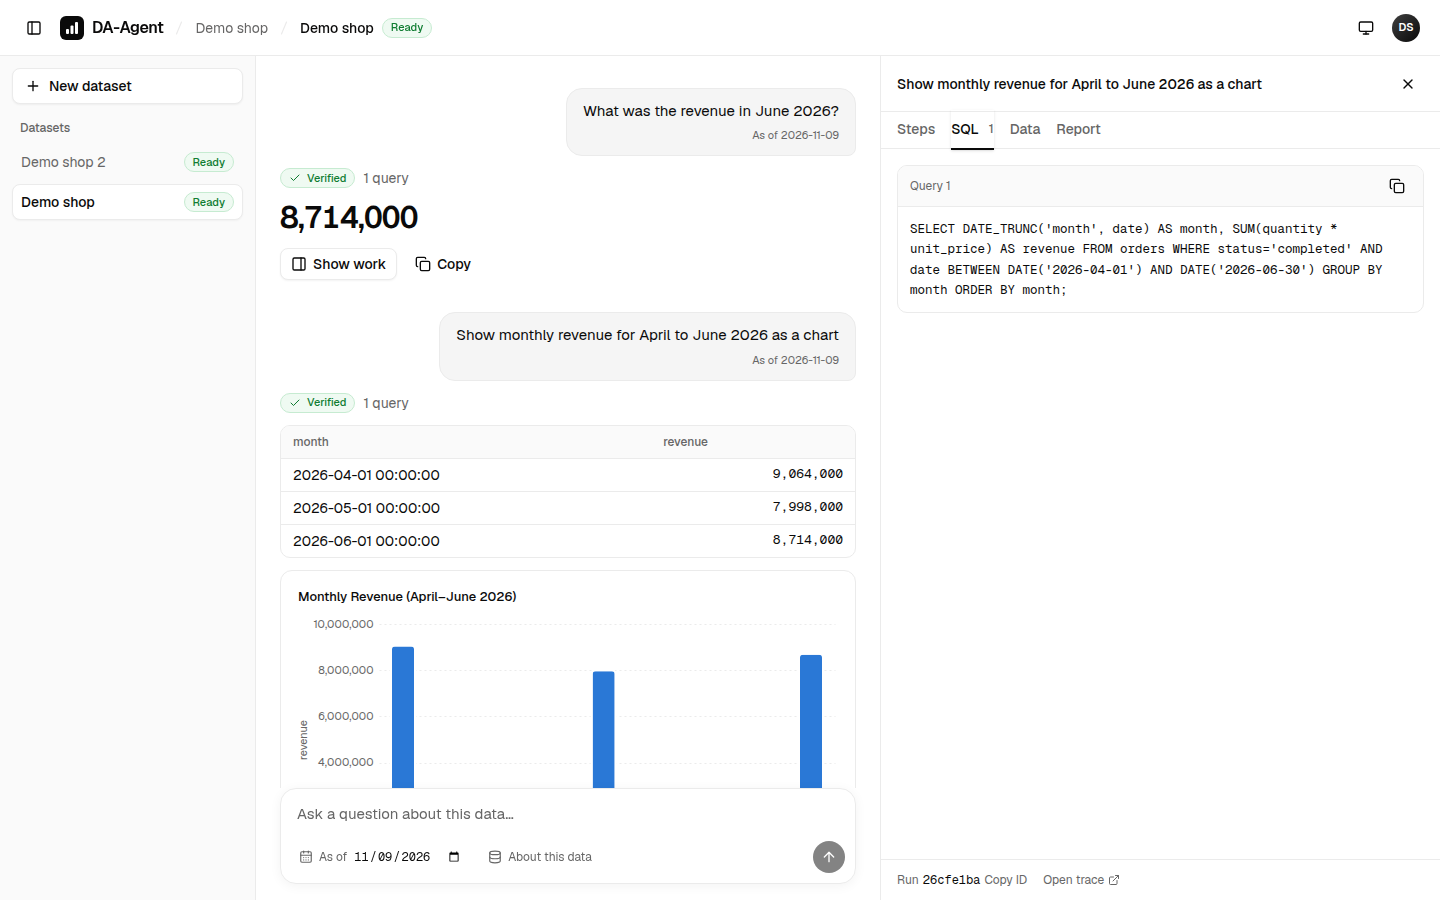
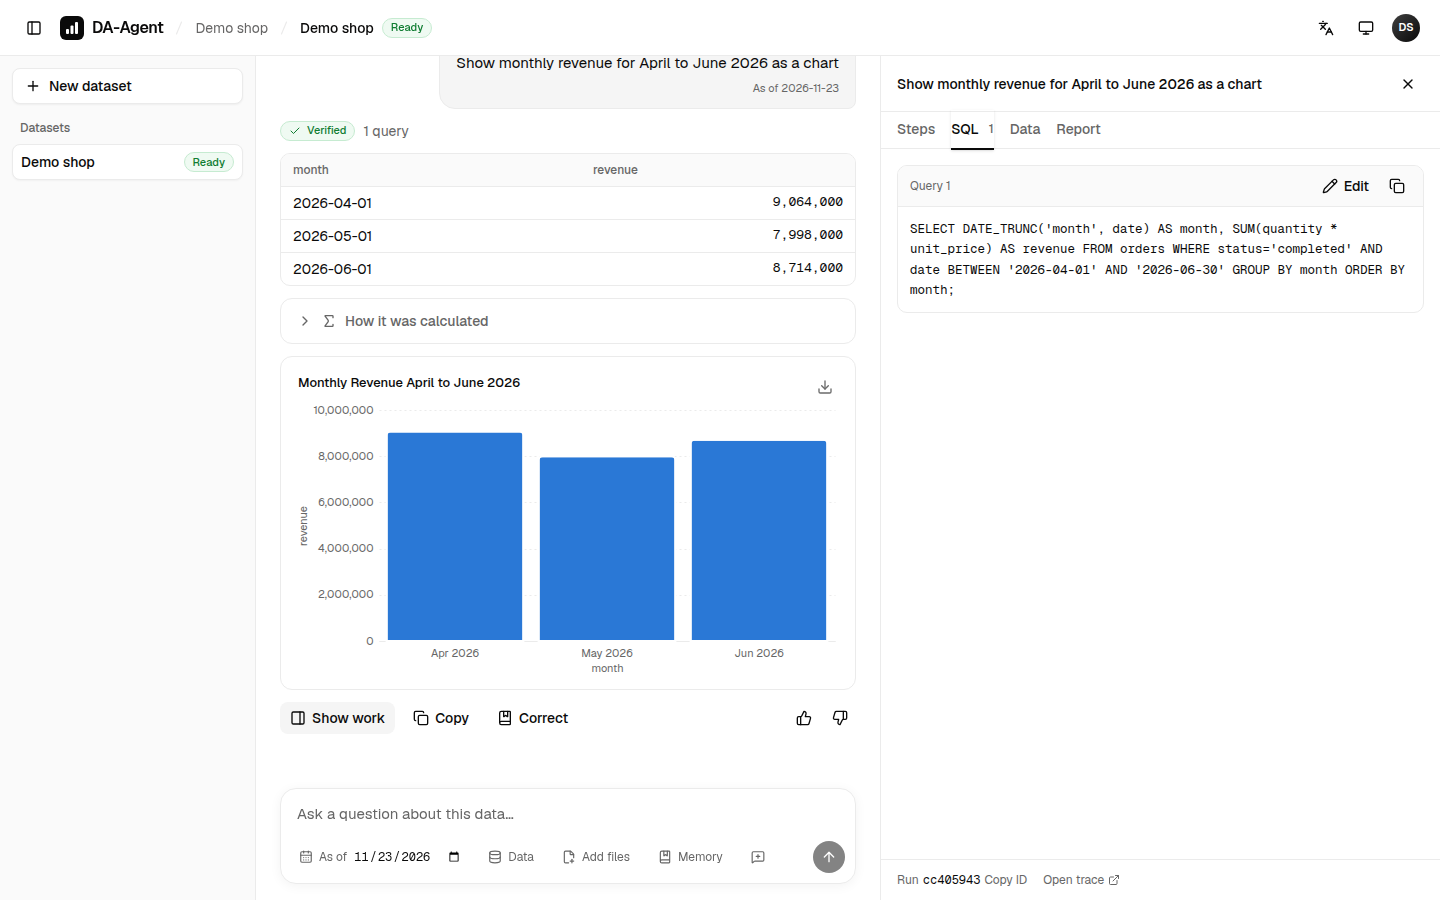
docs: README highlights and badges, operations guide, new screenshot
The README opens with results and design highlights and a plain diagram; running without
Compose, time travel, golden reruns, SLOs, and traces move to docs/operations.md. The chat
screenshot is re-captured with the chart fixes ($0.008 of Groq calls).

diff --git a/README.md b/README.md
@@ -1,5 +1,10 @@
 # DA-Agent
 
+[![CI](https://github.com/qnghi13/DA-Agent/actions/workflows/ci.yml/badge.svg)](https://github.com/qnghi13/DA-Agent/actions/workflows/ci.yml)
+[![Release](https://img.shields.io/github/v/tag/qnghi13/DA-Agent?label=release)](https://github.com/qnghi13/DA-Agent/pkgs/container/da-agent)
+[![License: Apache-2.0](https://img.shields.io/badge/license-Apache--2.0-blue)](LICENSE)
+![Python 3.12](https://img.shields.io/badge/python-3.12-blue)
+
 An open-source agent that analyses uploaded CSV, Excel, and SQLite files. You upload data with a
 free-form description and ask questions. It answers with results you can trace back to the queries
 that produced them.
@@ -25,6 +30,30 @@ questions in English and Vietnamese, and see the SQL behind each answer.*
     <td>The operator dashboard: queue, outcomes, latency, model errors, cost</td>
   </tr>
 </table>
+
+## Highlights
+
+- **Measured on unseen data.** On 150 questions from 6 shops held out from development and run
+  once, 60% correct and 9% abstained, at about $0.002 and 6 seconds (median) per question with
+  `gpt-oss-20b`. A wrong answer costs a point, so the agent abstains rather than guess
+  ([Evaluation](#evaluation)).
+- **Generated code never runs on the host.** File parsing and every SQL query run in containers
+  without network or secrets, behind a read-only SQL guard. Escape attempts are tests.
+- **Answers are checked by code, not by another model.** Numbers must come from query results,
+  periods must fall inside the data, and joins must not double-count. A failed check gets two
+  repairs, then the agent abstains.
+- **Crash-safe and budgeted.** Every model turn is a Postgres checkpoint, so a killed worker's
+  run resumes without repeating steps. Token and money limits per run and workspace, a circuit
+  breaker for model providers, cancel, and deadlines.
+- **Operable.** OpenTelemetry traces, a cost ledger per model call, an audit log, an operator
+  dashboard, and Prometheus SLO alerts.
+- **Decisions on record.** 47 [architecture decision records](docs/adr/README.md), a
+  [threat model](docs/threat-model.md), and about 1,800 Python and 160 web tests in CI.
+
+What measuring taught: the largest gain came from data preparation, not from the agent. Removing
+double entries that code can prove took one shop's score from −11 to +13, while the LangGraph
+workflow scored the same as a plain tool loop. The workflow stays for checkpoints and
+verification, not for score.
 
 ## Quick start
 
@@ -63,12 +92,21 @@ add `-v` to delete all data.
 
 ## How it works
 
+```mermaid
+flowchart LR
+    browser["Browser<br/>React UI"] -- "HTTP, SSE" --> api["API<br/>FastAPI"]
+    api --> pg[("Postgres<br/>jobs, checkpoints,<br/>audit log, costs")]
+    worker["Worker<br/>ingestion, LangGraph agent"] -- "claims jobs" --> pg
+    worker --> llm["LLMClient"] --> providers(("Model<br/>providers"))
+    worker -- "one SQL query" --> runner["Runner"] --> sandbox["Sandbox<br/>DuckDB, no network,<br/>read-only dataset"]
+```
+
+The same system drawn as one bench, with numbers that follow a question through it:
+
 <picture>
   <source media="(prefers-color-scheme: dark)" srcset="docs/images/architecture-dark.svg" />
   <img src="docs/images/architecture-light.svg" alt="The system drawn as one bench: a terminal cabled to an intake box, a four-drawer card cabinet, a carriage on rails cabled to a teleprinter with an antenna, and an airlock that passes one lit SQL card into a sealed glass box holding a clamped data cartridge." />
 </picture>
-
-The system as one bench. The numbers follow a question through it:
 
 1. **Browser** (the terminal): the React UI, talking to the API over HTTP and SSE (two cables).
 2. **API** (the intake box): FastAPI. It checks sign-in, scopes each request to a workspace, and
@@ -149,6 +187,7 @@ Holdout is within noise of dev. Details, the history of changes, and caveats are
 ## Documentation
 
 - [Architecture](docs/architecture.md)
+- [Operations](docs/operations.md): running without Compose, time travel, golden reruns, alerts
 - [Evaluation results](docs/eval/README.md)
 - [Threat model](docs/threat-model.md)
 - [Decision records](docs/adr/README.md)
@@ -164,10 +203,12 @@ Requires [uv](https://docs.astral.sh/uv/) and Python 3.12.
 uv sync
 uv run pytest
 uv run ruff check .
+uv run pyright          # src, eval, sandbox, and scripts
 ```
 
 Tests that need Postgres are skipped unless `DA_AGENT_TEST_POSTGRES_URL` is set; each test runs in
-its own schema.
+its own schema. To run the backend without Compose, and for the operator tools, see
+[Operations](docs/operations.md).
 
 The project was built with Claude Code. `CLAUDE.md`, `.claude/settings.json`, the hooks, agents,
 and the `tdd` and `agent-architecture` skills are part of the repo. Third-party skills are not
@@ -177,67 +218,6 @@ committed; restore them if you want the same setup (needs Node):
 npx skills experimental_install          # the versions pinned in skills-lock.json
 playwright-cli install --skills          # from @playwright/cli, for browser checks of the UI
 ```
-
-## Running the backend without Compose
-
-For development. Without `DA_AGENT_RUNNER_URL` the worker starts sandbox containers itself, so it
-needs Docker and the sandbox image; Compose runs a separate Runner service instead
-([ADR 0024](docs/adr/0024-runner-service.md)). Postgres holds jobs, checkpoints, and costs.
-
-```bash
-docker build -f sandbox/Dockerfile -t da-agent-sandbox:dev .
-export DA_AGENT_DATABASE_URL=postgresql://USER:PASSWORD@localhost:5432/da_agent
-export DA_AGENT_DATA_DIR=/path/to/data            # uploads, staging, and built datasets
-export DA_AGENT_ROUTES=groq:openai/gpt-oss-20b    # the worker only; GROQ_API_KEY too
-
-uv run python -m da_agent.admin create-workspace "My shop"   # prints a key once
-DA_AGENT_PUBLIC_URL=http://localhost:5173 uv run python -m da_agent.api --port 8000
-uv run python -m da_agent.admin login-link --workspace WORKSPACE_ID   # for the browser
-uv run python -m da_agent.worker
-```
-
-Then, with the key as a bearer token:
-
-```bash
-curl -H "Authorization: Bearer $KEY" -F name=Sales -F files=@sales.csv localhost:8000/v1/datasets
-curl -H "Authorization: Bearer $KEY" localhost:8000/v1/datasets/$DATASET        # review the spec
-curl -H "Authorization: Bearer $KEY" -X POST -H 'Content-Type: application/json' -d '{}' \
-     localhost:8000/v1/datasets/$DATASET/approve
-curl -H "Authorization: Bearer $KEY" -H 'Content-Type: application/json' \
-     -d "{\"dataset_id\": \"$DATASET\", \"question\": \"Total revenue in June?\"}" localhost:8000/v1/runs
-curl -N -H "Authorization: Bearer $KEY" localhost:8000/v1/runs/$RUN/events     # live progress
-curl -H "Authorization: Bearer $KEY" localhost:8000/v1/runs/$RUN/report > report.html
-curl -H "Authorization: Bearer $KEY" "localhost:8000/v1/runs?dataset_id=$DATASET"  # history
-```
-
-Operators can read and rerun a run's checkpoints with the worker's settings
-([ADR 0042](docs/adr/0042-cancel-deadline-time-travel.md)); a fork calls the model:
-
-```bash
-uv run python -m da_agent.timetravel list $RUN               # every step of a run
-uv run python -m da_agent.timetravel show $RUN $CHECKPOINT   # the state at one step
-uv run python -m da_agent.timetravel fork $RUN $CHECKPOINT   # run on from there in a new thread
-```
-
-Answers users rated 👍 become golden cases, which operators rerun after a change
-([ADR 0043](docs/adr/0043-feedback-goldens.md)); `run` spends only with `--yes`:
-
-```bash
-uv run python -m da_agent.goldens list --workspace $WORKSPACE      # cases and runs rated 👎
-uv run python -m da_agent.goldens run --workspace $WORKSPACE --yes # same / changed / error
-```
-
-Compose also runs Prometheus (`127.0.0.1:9090`) and Alertmanager (`127.0.0.1:9093`) for SLOs and
-alerts ([ADR 0044](docs/adr/0044-slo-alerts.md)). Set `DA_AGENT_ALERT_WEBHOOK_URL` in `.env` to
-receive alerts; rules are in `deploy/prometheus/rules/` and their tests run with `uv run pytest`.
-
-Traces go to any OpenTelemetry (OTLP) endpoint set in `DA_AGENT_OTLP_ENDPOINT`, such as a local
-Phoenix (`http://127.0.0.1:6006/v1/traces`). Setting `DA_AGENT_TRACE_UI_URL=http://127.0.0.1:6006`
-on the API adds an "Open trace" link to each run in the UI. Phoenix shows every workspace's
-traces, so set it only where the operator is the only user.
-
-Every setting is listed in [`src/da_agent/config.py`](src/da_agent/config.py). The interactive API
-reference is at `/docs`.
 
 ## Running the web UI
 

diff --git a/docs/progress.md b/docs/progress.md
@@ -1,6 +1,6 @@
 # Progress
 
-Loaded into every session; keep it under 60 lines and replace stale content. **Last updated:** 2026-11-22 (answers in the question's language)
+Loaded into every session; keep it under 60 lines and replace stale content. **Last updated:** 2026-11-23 (portfolio polish)
 **Phase:** optimisation. Challenge rules: ≤15B params in total, offline Docker, 2×5090, 6 h,
 re-run must match ±0.03 PA; Groq `gpt-oss-20b` (21B, API) is not allowed for the submission.
 
@@ -18,6 +18,10 @@ re-run must match ±0.03 PA; Groq `gpt-oss-20b` (21B, API) is not allowed for th
   (Groq +55). Then status variants and line-vs-header revenue (~12, checked by hand SQL), debt
   4, budget abstains 8 (SQLite functions, made-up columns). Semantic layer: private folder.
 ## Next step
+- **Portfolio polish** (2026-11-23, not committed): README highlights, badges, plain diagram,
+  `docs/operations.md`; month bars are ordinal bands; UI drops midnight times and repeated
+  charts; `chat.png` re-captured ($0.008). Open: a tie dropped by `LIMIT 1` (needs eval); Groq
+  `invalid_tool_call` 6 times in one chart run, then `make_chart` on the submit-only last turn.
 - **Vietnamese UI** on `main` (ADR 0046, note 25; not pushed): Tiếng Việt option, typed
   dictionaries in `web/src/i18n`, API error `code`/`params`. Column descriptions stay English.
 - **Answer language** on `main` (ADR 0047): a Vietnamese question gets `reason` and
@@ -30,33 +34,25 @@ re-run must match ±0.03 PA; Groq `gpt-oss-20b` (21B, API) is not allowed for th
    Harness track done (ADRs 0038–0044, notes 17–23): manifest, record/replay, pass^k (one-run
    gains under ~9 points are noise), breaker, cancel and deadline, feedback, SLOs and alerts.
    Later: an LLM judge checked against feedback.
-1. v0.1.0 released (ADR 0028); holdout ran once (+44, never rerun). Open: run 97d7bc1f guessed
-   an absent `product_id` (audit: a UI guardrail, not a score fix); `\uXXXX` escapes written into
-   SQL text (2 runs in all reports).
+1. v0.1.0 released (ADR 0028); holdout ran once (+44, never rerun). Open: an absent `product_id`
+   guessed (run 97d7bc1f; a UI guardrail); `\uXXXX` escapes in SQL text (2 runs in all reports).
 ## Baselines (Groq `gpt-oss-20b`, before 559f88a): `regression` +53 (93/40/17), holdout +44.
 ## Done
 - ADRs 0001–0047, notes 01–25. Scorer 3000/3000; splits in `eval/splits/splits.json`.
-- Agent: `LLMClient`, SQL guard, LangGraph with checkpoints and verify, Groq `gpt-oss-20b`.
-  Sandbox: all escape tests pass; ingestion and agent SQL run in it (ADRs 0009–0012).
+- Agent, sandbox (escape tests pass), backend over HTTP, reports; RAG cut (note 05).
   `datasets-dev/`: 24/24 ok, parse 99.98%+, exclusion precision and recall 100%.
-- Backend (ADRs 0017–0022) over HTTP; reports; RAG cut (note 05).
-
 ## Not verified
-- Pyright: 24 old errors. No real call: Gemini, `openrouter`, `vllm` (serve.sh untested on a
+- Pyright: 0 errors in src, eval, sandbox, scripts, and in CI (2026-11-23); tests not checked
+  (184 errors, mostly fakes). No real call: Gemini, `openrouter`, `vllm` (serve.sh untested on a
   GPU). Postgres tests need `uv run --env-file .env pytest`.
-
 ## Waiting on the user
 - No rows, questions, rulebook, or answers in any commit or image (organiser rules). When the
   challenge ends: delete `train/`, `eval/reports/`, and Docker volumes with eval data.
 
-## Spend so far: about $3.11 (agent runs $2.48, spec proposals $0.57, demos and e2e $0.04).
-- Demo video (2026-11-22, ~$0.025, Playwright screencast on `examples/demo-shop`, Kokoro
-  narration, not in the repo): seen live, a top-product answer dropped a tie (LIMIT 1); a month
-  line chart ticks by week (DATE_TRUNC timestamp); "bar chart of revenue by channel" drew no
-  chart; one run "invalid tool calls"; one run called `make_chart` twice and showed both charts.
+## Spend so far: about $3.12 (agent runs $2.48, spec proposals $0.57, demos and e2e $0.05).
+- Demo video (2026-11-22, not in the repo): re-record once the open items under Next step are fixed.
 
 ## Watch out
-
 - 30 questions on Groq cost about $0.05–0.10, and results vary run to run: compare totals.
   Scorer: a wrong `type` is wrong; table columns match by name only if all names match.
 - Do not regenerate `splits.json`, and never read data from its holdout shops: the one

diff --git a/docs/operations.md b/docs/operations.md
@@ -1,0 +1,76 @@
+# Operations
+
+How to run the backend for development without Compose, and the operator tools: time travel over
+checkpoints, golden reruns, SLO alerts, and traces. The [README](../README.md) covers the Compose
+quick start.
+
+## Running the backend without Compose
+
+For development. Without `DA_AGENT_RUNNER_URL` the worker starts sandbox containers itself, so it
+needs Docker and the sandbox image; Compose runs a separate Runner service instead
+([ADR 0024](adr/0024-runner-service.md)). Postgres holds jobs, checkpoints, and costs.
+
+```bash
+docker build -f sandbox/Dockerfile -t da-agent-sandbox:dev .
+export DA_AGENT_DATABASE_URL=postgresql://USER:PASSWORD@localhost:5432/da_agent
+export DA_AGENT_DATA_DIR=/path/to/data            # uploads, staging, and built datasets
+export DA_AGENT_ROUTES=groq:openai/gpt-oss-20b    # the worker only; GROQ_API_KEY too
+
+uv run python -m da_agent.admin create-workspace "My shop"   # prints a key once
+DA_AGENT_PUBLIC_URL=http://localhost:5173 uv run python -m da_agent.api --port 8000
+uv run python -m da_agent.admin login-link --workspace WORKSPACE_ID   # for the browser
+uv run python -m da_agent.worker
+```
+
+Then, with the key as a bearer token:
+
+```bash
+curl -H "Authorization: Bearer $KEY" -F name=Sales -F files=@sales.csv localhost:8000/v1/datasets
+curl -H "Authorization: Bearer $KEY" localhost:8000/v1/datasets/$DATASET        # review the spec
+curl -H "Authorization: Bearer $KEY" -X POST -H 'Content-Type: application/json' -d '{}' \
+     localhost:8000/v1/datasets/$DATASET/approve
+curl -H "Authorization: Bearer $KEY" -H 'Content-Type: application/json' \
+     -d "{\"dataset_id\": \"$DATASET\", \"question\": \"Total revenue in June?\"}" localhost:8000/v1/runs
+curl -N -H "Authorization: Bearer $KEY" localhost:8000/v1/runs/$RUN/events     # live progress
+curl -H "Authorization: Bearer $KEY" localhost:8000/v1/runs/$RUN/report > report.html
+curl -H "Authorization: Bearer $KEY" "localhost:8000/v1/runs?dataset_id=$DATASET"  # history
+```
+
+## Time travel over checkpoints
+
+Operators can read and rerun a run's checkpoints with the worker's settings
+([ADR 0042](adr/0042-cancel-deadline-time-travel.md)); a fork calls the model:
+
+```bash
+uv run python -m da_agent.timetravel list $RUN               # every step of a run
+uv run python -m da_agent.timetravel show $RUN $CHECKPOINT   # the state at one step
+uv run python -m da_agent.timetravel fork $RUN $CHECKPOINT   # run on from there in a new thread
+```
+
+## Golden reruns
+
+Answers users rated 👍 become golden cases, which operators rerun after a change
+([ADR 0043](adr/0043-feedback-goldens.md)); `run` spends only with `--yes`:
+
+```bash
+uv run python -m da_agent.goldens list --workspace $WORKSPACE      # cases and runs rated 👎
+uv run python -m da_agent.goldens run --workspace $WORKSPACE --yes # same / changed / error
+```
+
+## SLOs and alerts
+
+Compose also runs Prometheus (`127.0.0.1:9090`) and Alertmanager (`127.0.0.1:9093`) for SLOs and
+alerts ([ADR 0044](adr/0044-slo-alerts.md)). Set `DA_AGENT_ALERT_WEBHOOK_URL` in `.env` to
+receive alerts; rules are in `deploy/prometheus/rules/` and their tests run with `uv run pytest`.
+
+## Traces
+
+Traces go to any OpenTelemetry (OTLP) endpoint set in `DA_AGENT_OTLP_ENDPOINT`, such as a local
+Phoenix (`http://127.0.0.1:6006/v1/traces`). Setting `DA_AGENT_TRACE_UI_URL=http://127.0.0.1:6006`
+on the API adds an "Open trace" link to each run in the UI. Phoenix shows every workspace's
+traces, so set it only where the operator is the only user.
+
+## Settings
+
+Every setting is listed in [`src/da_agent/config.py`](../src/da_agent/config.py). The
+interactive API reference is at `/docs`.
